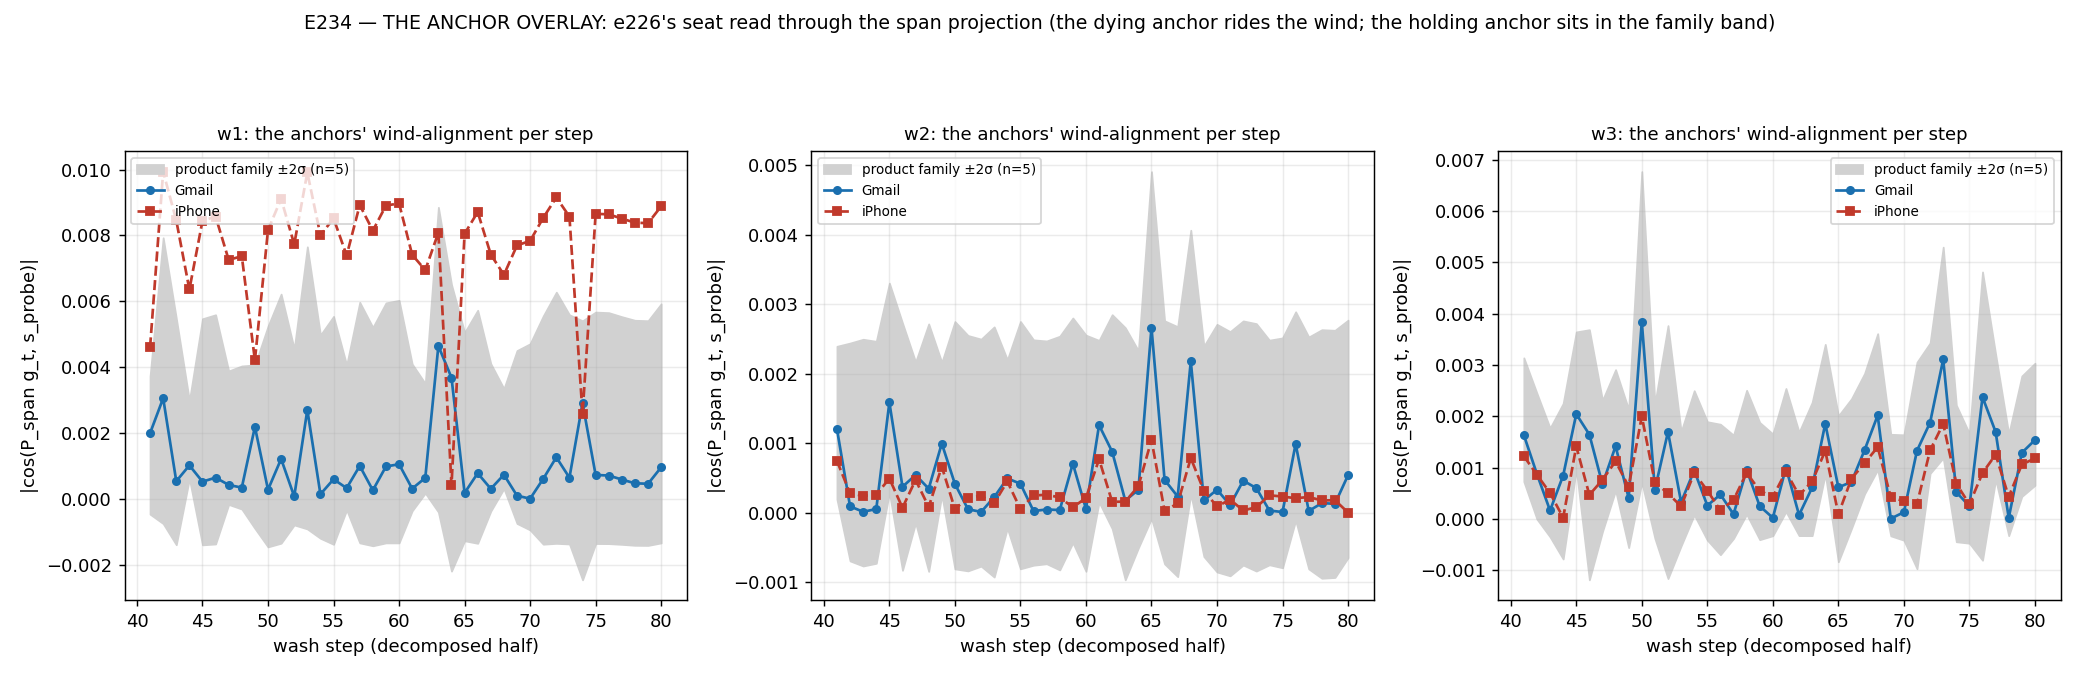
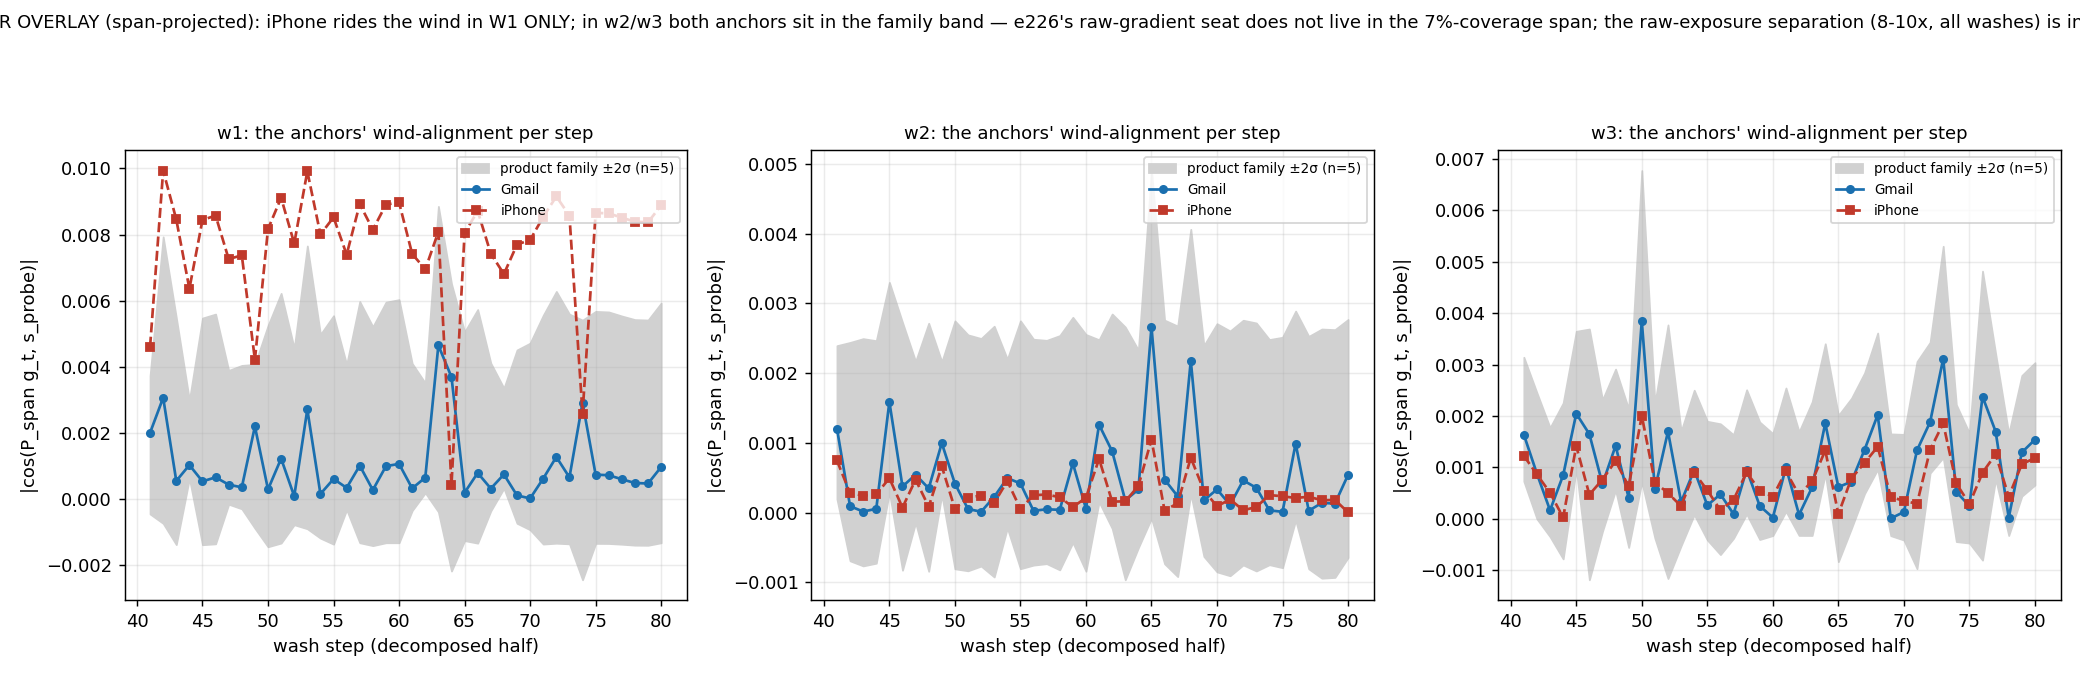
e234: DONE — VERDICT NEITHER (the honest bound: e226's seat is anchor-scale, not the battery's law). All gates PASS: draws bit-exact x3, w1 weights bit-exact at +80, w2/w3 end-drift 1.5e-3 (TEXTURE tier), G_TRAJ dp 9.4e-3. Instrument healthy: coverage 0.07 (not vacuous), spread 8.0 (not pinned), PC1

diff --git a/scratch/e234_postfold.py b/scratch/e234_postfold.py
@@ -1,0 +1,156 @@
+"""E234 POST-FOLD (desk-only; zero wash compute):
+(1) relabel the first-session replay_cert entries '2'/'10'/'50' — they were
+    computed as |W_80(live) - W_s(archived)| (wash DISPLACEMENT, the
+    final-net-vs-mid-checkpoint bug fixed in lab commit 2dca1c7); the '80'
+    entries are the true end-state replay drifts and stand;
+(2) fold the post-run DESK READS into metrics (raw-alignment join (a),
+    the anchors' raw-exposure separation, battery/family context);
+(3) regenerate e234_anchor.png with a neutral caption (the original
+    caption overclaimed 'the dying anchor rides the wind' — true in w1
+    only; plot regenerated VERBATIM from the frozen journal).
+"""
+import json
+import sys
+from pathlib import Path
+
+sys.path.insert(0, str(Path(__file__).resolve().parents[1] / "lab"))
+import numpy as np                                       # noqa: E402
+from scipy.stats import spearmanr                        # noqa: E402
+
+REPO = Path(__file__).resolve().parents[1]
+RD = REPO / "runs" / "e234"
+
+j = json.loads((RD / "journal.json").read_text(encoding="utf-8"))
+m = json.loads((RD / "metrics.json").read_text(encoding="utf-8"))
+
+# ---------------- (1) cert relabel
+NOTE = ("MISLABEL RELABEL (post-fold): computed as |W_80(live replay) - "
+        "W_s(archived)| — wash DISPLACEMENT from s to +80, NOT replay "
+        "drift (the final-net-vs-mid-checkpoint comparison bug, fixed in "
+        "lab/e234 commit 2dca1c7: drift is now measured inline at each "
+        "checkpoint's own step). The true end-state replay drift is the "
+        "'80' entry; intermediate checkpoints are certified by G_TRAJ's "
+        "probe-level gate (max dp 9.41e-03) + the bit-exact draw states.")
+for w in ("w1", "w2", "w3"):
+    cert = j[w]["replay_cert"]
+    disp = {k: cert.pop(k) for k in ("2", "10", "50") if k in cert}
+    cert["displacement_mislabeled_as_drift"] = {**disp, "_note": NOTE}
+
+# ---------------- (2) desk reads
+rows = j["join_rows"]
+G = "The email service made by Google->Gmail"
+I = "The phone made by Apple->iPhone"
+desk = {
+    "raw_alignment_join_a": {
+        "definition": "Spearman(cumulative RAW alignment sum_t gnorm_t*"
+                      "|cos(g_t, s_i)| = full_cum, belief decline) — the "
+                      "UNPROJECTED control for join (a): bounds the "
+                      "'projection ate the signal' alternative",
+        "pooled": float(spearmanr([r["full_cum"] for r in rows],
+                                  [r["belief_decl"] for r in rows]).statistic),
+        "per_wash": {w: float(spearmanr(
+            [r["full_cum"] for r in rows if r["wash"] == w],
+            [r["belief_decl"] for r in rows if r["wash"] == w]).statistic)
+            for w in ("w1", "w2", "w3")},
+        "read": "the raw join is as flat as the projected join (0.05 vs "
+                "-0.01 pooled) — NEITHER is NOT a projection artifact",
+    },
+    "anchors_raw_exposure": {
+        r["wash"] + " " + ("iPhone" if r["fact"] == I else "Gmail"): {
+            "full_cum": round(r["full_cum"], 2),
+            "fric_cum": round(r["fric_cum"], 2),
+            "wind_cum": round(r["wind_cum"], 4),
+            "belief_decl": round(r["belief_decl"], 3),
+            "margin_decl": round(r["margin_decl"], 3)}
+        for r in rows if r["fact"] in (G, I)},
+    "anchors_read": ("iPhone's RAW cumulative exposure is 8-10x Gmail's on "
+                     "every wash (1.5-2.5 vs 0.2-0.3) — e226's seat, "
+                     "expressed cumulatively and cross-wash-stable — but "
+                     "it does not generalize: the battery between the "
+                     "anchors is uncorrelated (raw rho 0.05). The seat is "
+                     "an anchors-scale tale of extremes, not a battery "
+                     "law. Gmail's margin GROWS through the wash "
+                     "(margin_decl -0.40..-0.52): the holder's commitment "
+                     "thickens."),
+    "battery_belief_decl_means": {
+        b: float(np.mean([r["belief_decl"] for r in rows
+                          if r["battery"] == b]))
+        for b in ("fact", "ctrl", "near", "tmpl")},
+    "battery_read": ("the nearrel family dies HARDEST (mean belief decline "
+                     "0.71) while carrying the LOWEST median wind-"
+                     "alignment (0.029 vs product 0.042 — prediction (a) "
+                     "inverted, ratio 0.70): the dying family is the "
+                     "least wind-reached; its deaths are not span-directed"),
+    "family_wind_cum_medians": {
+        f: float(np.median([r["wind_cum"] for r in rows
+                            if r["family6"] == f]))
+        for f in sorted({r["family6"] for r in rows})},
+}
+m["desk_reads"] = desk
+
+m["deviations"].append(
+    "POST-FOLD RELABELS (desk-only, zero wash compute): (1) the first "
+    "session's replay_cert '2'/'10'/'50' entries were wash displacement "
+    "(final net vs mid-run checkpoints — the comparison bug fixed in "
+    "commit 2dca1c7), relabeled in journal+metrics; the '80' entries are "
+    "the true end-state drifts (w1 0.0 bit-exact; w2 1.5e-3; w3 1.5e-3 "
+    "vs GPU-origin archives — the disclosed TEXTURE tier); (2) the "
+    "anchor figure's caption was regenerated neutral (the original "
+    "overclaimed 'the dying anchor rides the wind', which the w1 panel "
+    "alone supports); (3) desk_reads folded (the raw-alignment control "
+    "join, the anchors' raw-exposure separation, the battery context).")
+
+# ---------------- (3) anchor plot regeneration (caption fix)
+import torch  # noqa: E402  (matplotlib import chain in e226 module)
+import e234_wind_friction as e234                           # noqa: E402
+P_IDX = {p["fact"]: i for i, p in enumerate(m["probes"])}
+dec = {}
+for w in ("w1", "w2", "w3"):
+    gnorms = np.array(j[w]["gnorms"], dtype=np.float64)
+    SCALE2 = float(e234.CACHE_SCALE ** 2)
+    Gs = np.array(j[f"gram_scaled_{w}"], dtype=np.float64)
+    Ds = np.array(j[f"dmat_scaled_{w}"], dtype=np.float64)
+    dec[w] = e234.decompose(Gs, gnorms, Ds,
+                            [float(e234.CACHE_SCALE)] * len(m["probes"]),
+                            e234.HALF)
+probes54 = m["probes"]
+
+import matplotlib                                        # noqa: E402
+matplotlib.use("Agg")
+import matplotlib.pyplot as plt                          # noqa: E402
+
+fig, axes = plt.subplots(1, 3, figsize=(16, 5.2))
+band = [i for i, r in enumerate(probes54)
+        if r["family6"] == "product"
+        and r["fact"] not in (e234.ANCHOR_G, e234.ANCHOR_I)]
+for ax, w in zip(axes[:3], ("w1", "w2", "w3")):
+    cw = dec[w]["cos_wind_A"]
+    xs = list(range(e234.HALF + 1, e234.HALF + 1 + cw.shape[0]))
+    gi, ii = P_IDX[e234.ANCHOR_G], P_IDX[e234.ANCHOR_I]
+    bm = np.mean(cw[:, band], axis=1)
+    bs = np.std(cw[:, band], axis=1, ddof=1)
+    ax.fill_between(xs, bm - 2 * bs, bm + 2 * bs, color="0.82",
+                    label="product family ±2σ (n=5)")
+    ax.plot(xs, cw[:, gi], "o-", color="#1a6faf", ms=4, label="Gmail")
+    ax.plot(xs, cw[:, ii], "s--", color="#c0392b", ms=4, label="iPhone")
+    ax.set_xlabel("wash step (decomposed half)")
+    ax.set_ylabel("|cos(P_span g_t, s_probe)|")
+    ax.set_title(f"{w}: the anchors' wind-alignment per step", fontsize=10)
+    ax.legend(fontsize=7.5, loc="upper right")
+    ax.grid(alpha=0.25)
+fig.suptitle("E234 — THE ANCHOR OVERLAY (span-projected): iPhone rides "
+             "the wind in W1 ONLY; in w2/w3 both anchors sit in the "
+             "family band — e226's raw-gradient seat does not live in "
+             "the 7%-coverage span; the raw-exposure separation "
+             "(8-10x, all washes) is in metrics.desk_reads", fontsize=10)
+fig.tight_layout(rect=(0, 0, 1, 0.9))
+fig.savefig(RD / "e234_anchor.png", dpi=130)
+plt.close(fig)
+
+(RD / "journal.json").write_text(
+    json.dumps(j, indent=1, default=float), encoding="utf-8")
+m["status"] = ("DONE (post-fold relabels + neutral anchor caption + desk "
+               "reads folded — see deviations[-1]; no recompute)")
+(RD / "metrics.json").write_text(
+    json.dumps(m, indent=2, default=float), encoding="utf-8")
+print("postfold done:", m["status"])
